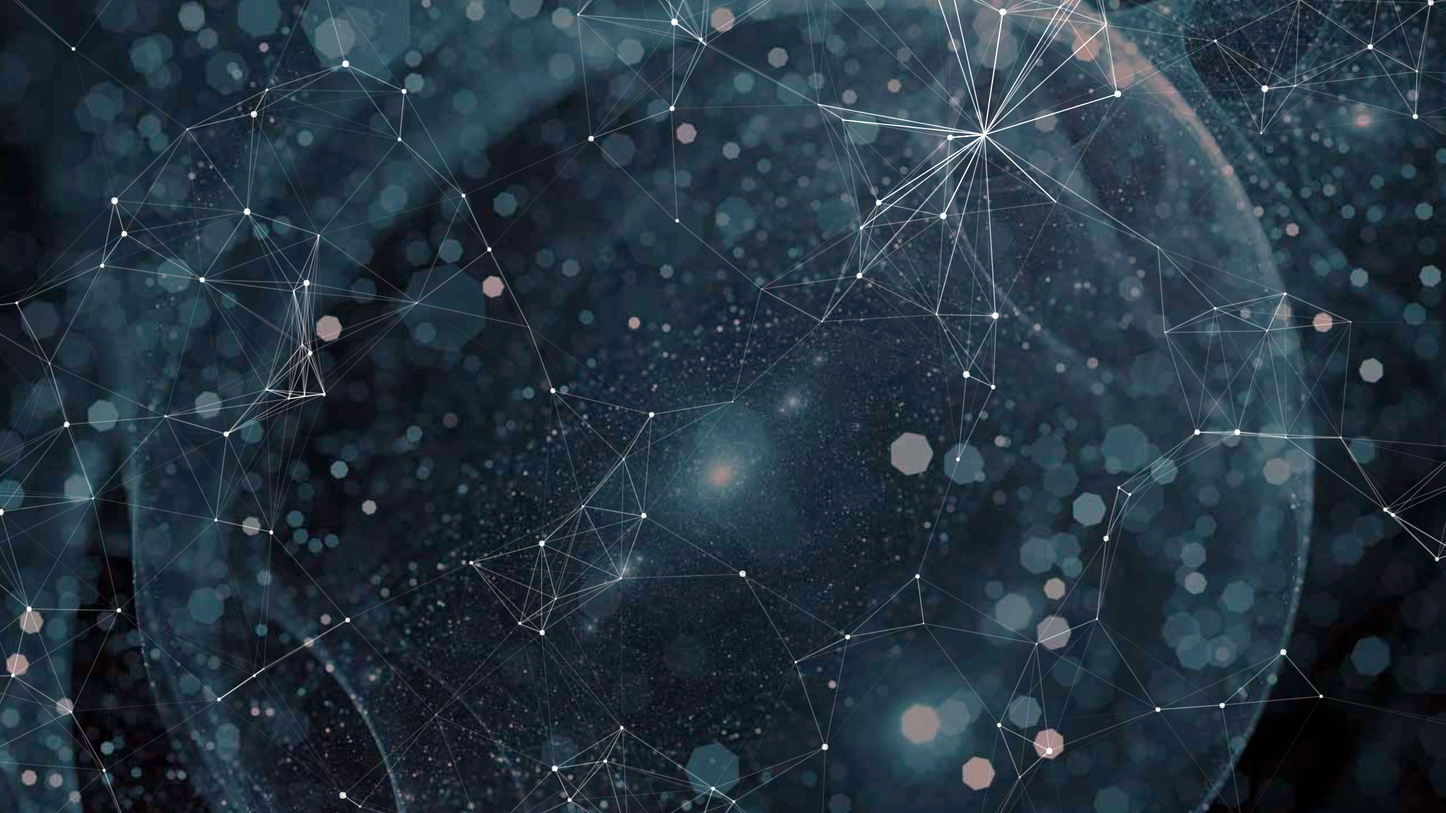
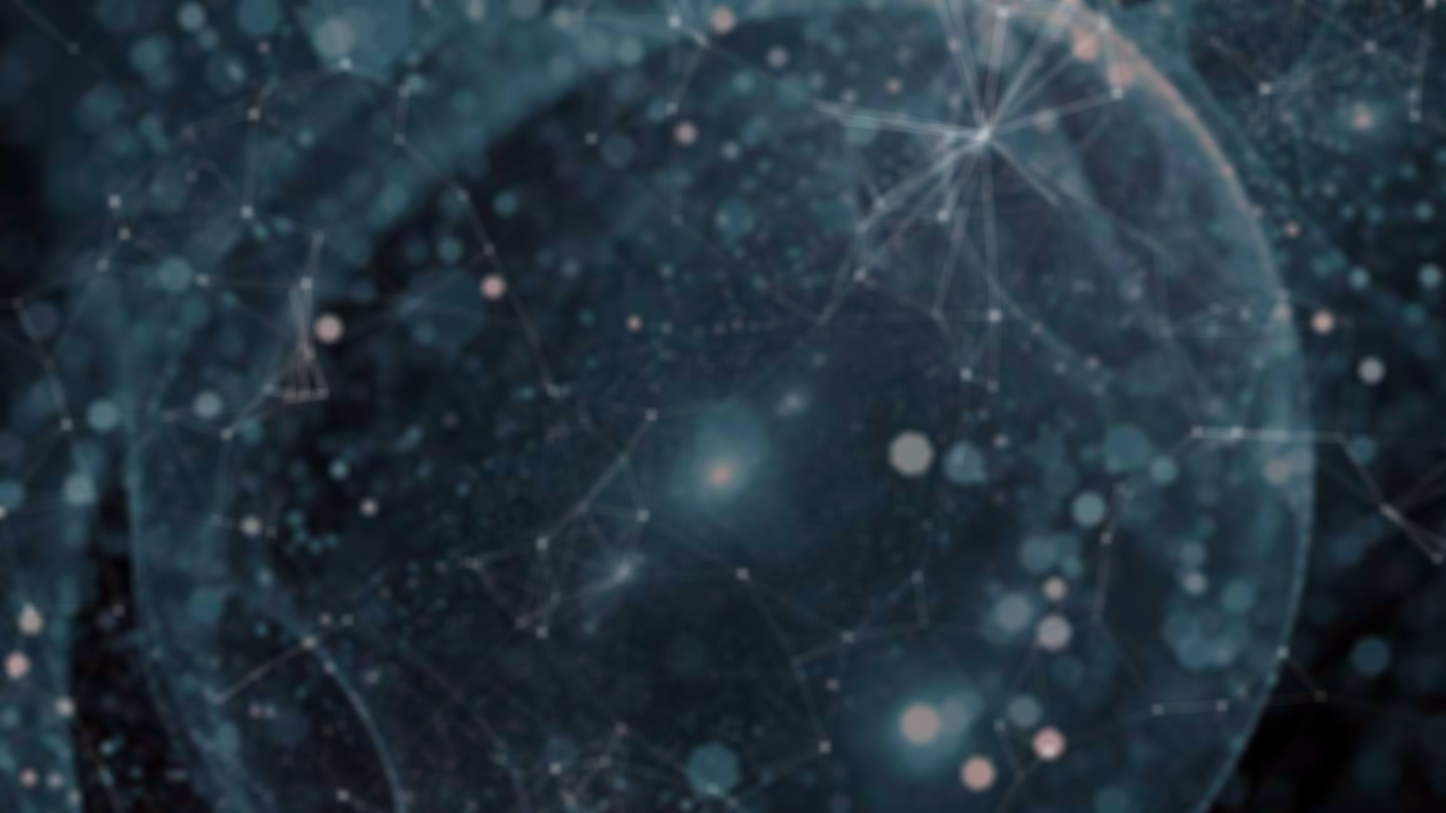
update styles

diff --git a/src/styles/global.scss b/src/styles/global.scss
@@ -26,8 +26,9 @@
 
 :global(.dark) {
   background-color: $huiyin-black;
+  background-image: url(/images/background.jpg);
+  background-attachment: fixed;
 }
-
 
 :global(.dark.section h1) {
   color: $huiyin-white;
